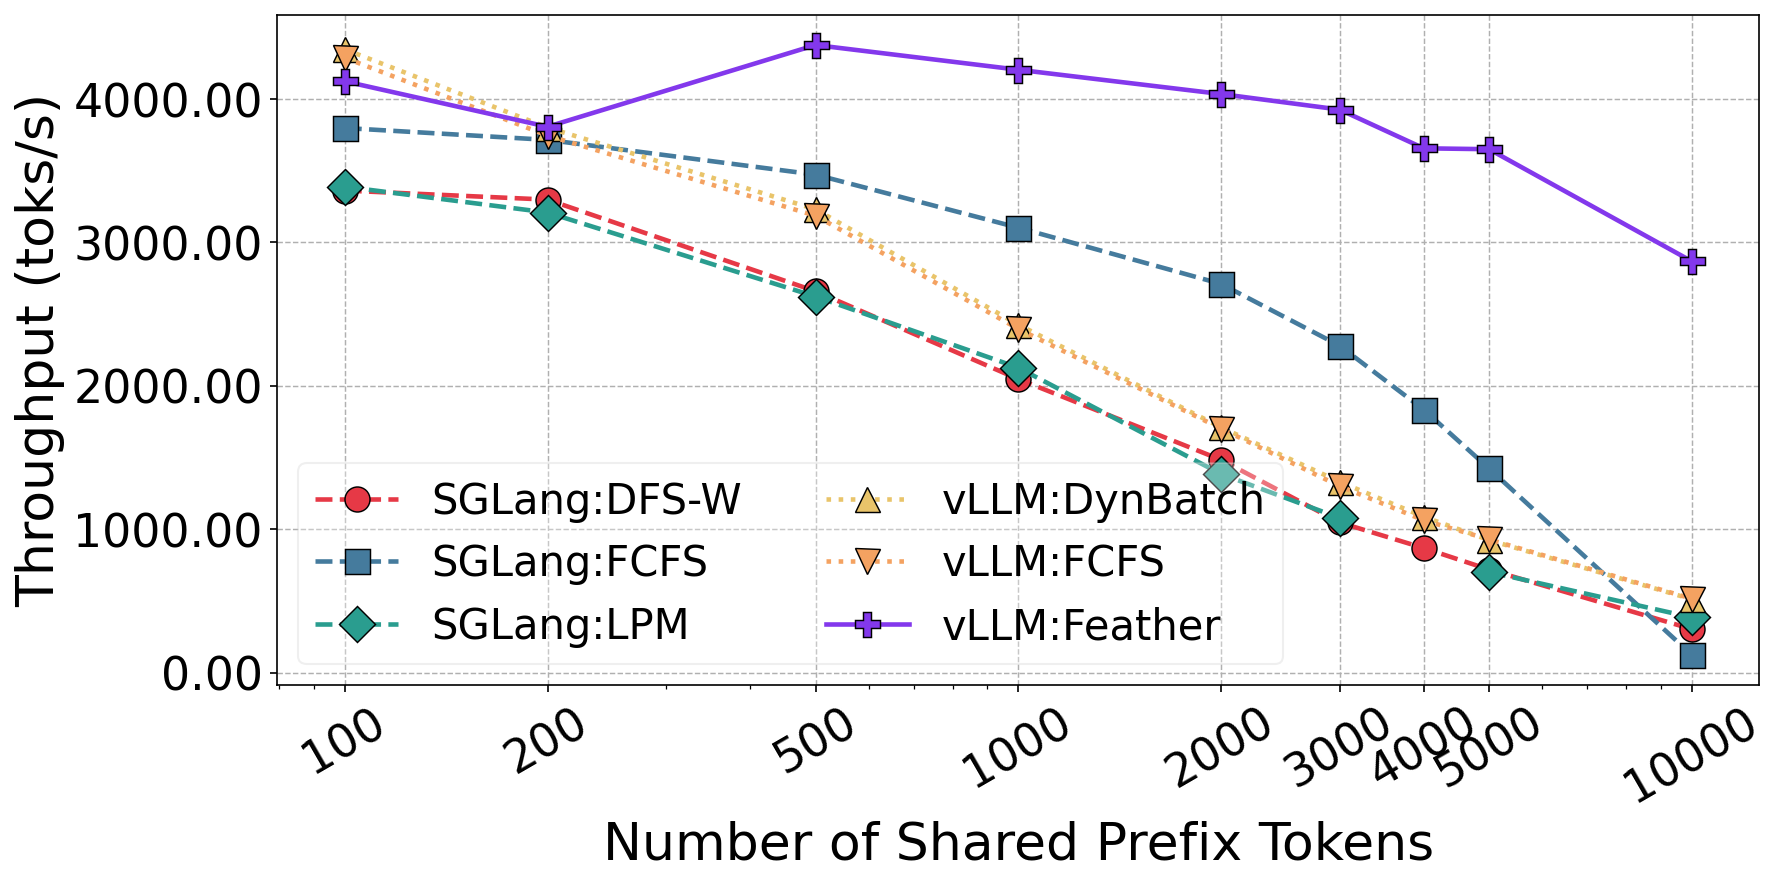
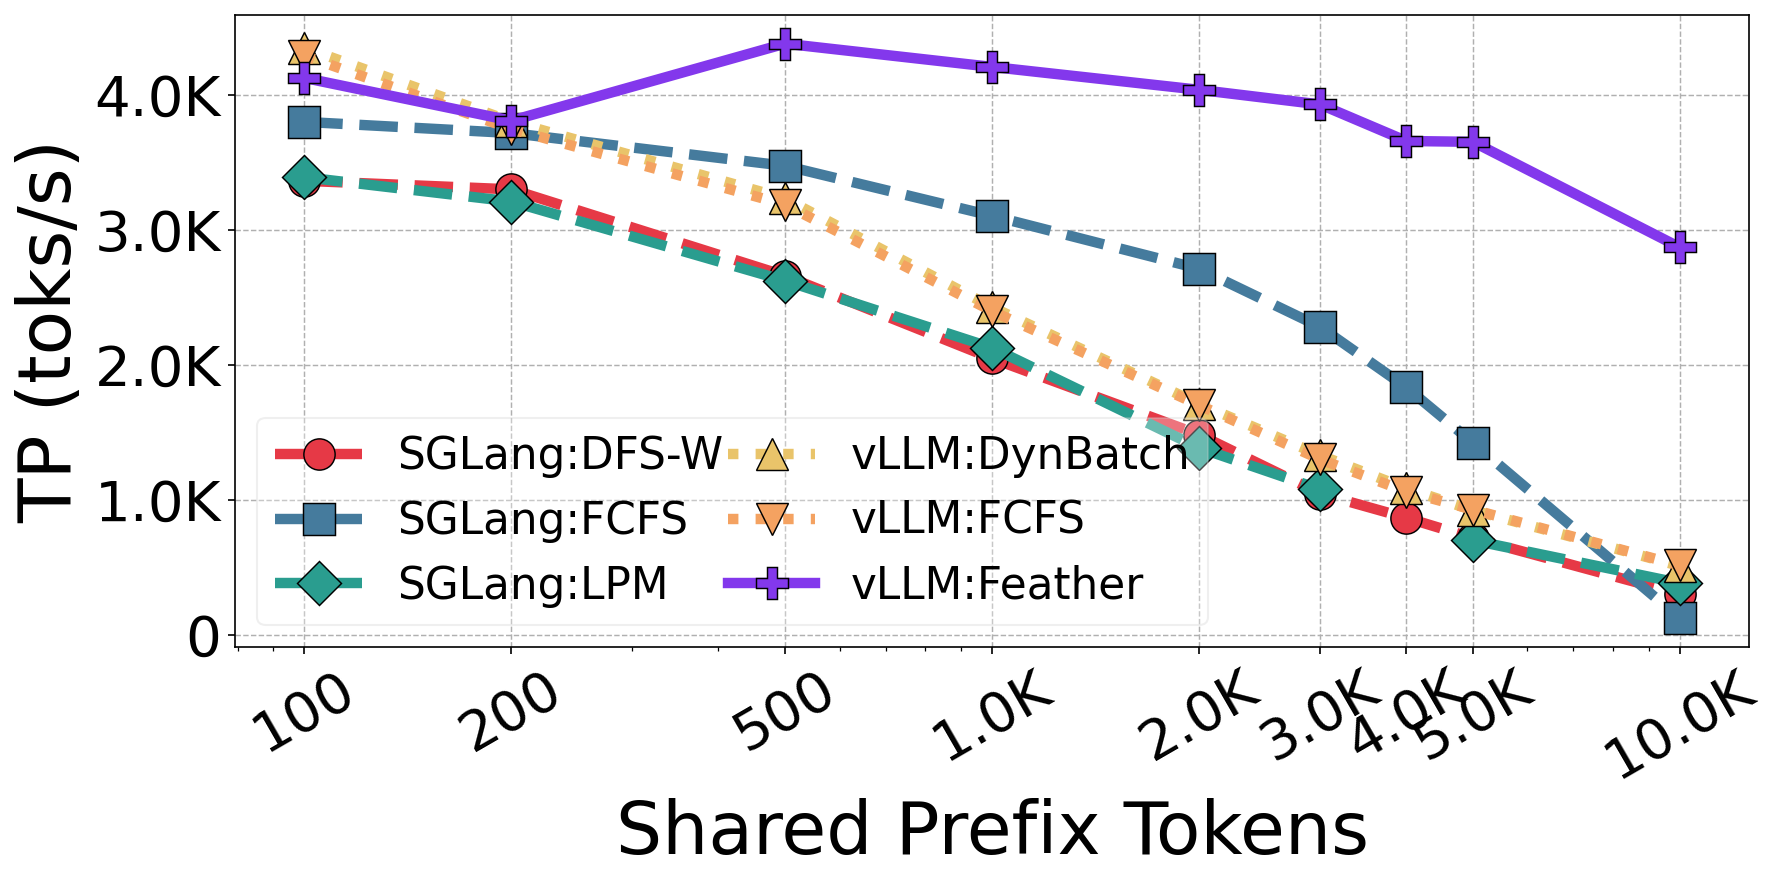
cpu overhead

diff --git a/code/vllm/sys_prompt_tokens_logs/plot.py b/code/vllm/sys_prompt_tokens_logs/plot.py
@@ -172,8 +172,8 @@ def make_plot(metric_key, ylabel, title, outpath):
             ys,
             marker=marker,
             linestyle=linestyle,
-            linewidth=2.2,
-            markersize=12,
+            linewidth=5,
+            markersize=15,
             markeredgecolor="black",
             markeredgewidth=0.7,
             color=color,
@@ -182,19 +182,22 @@ def make_plot(metric_key, ylabel, title, outpath):
 
     ax.set_xscale("log")
 
-    ax.set_xlabel("Number of Shared Prefix Tokens", fontsize=25)
-    ax.set_ylabel(ylabel, fontsize=25)
+    ax.set_xlabel("Shared Prefix Tokens", fontsize=35)
+    ax.set_ylabel(ylabel, fontsize=35)
 
     ax.set_xticks(all_tokens)
     ax.set_xticklabels(all_tokens, rotation=30)
     # ax.get_xaxis().set_major_formatter(ticker.ScalarFormatter())
 
-    ax.tick_params(axis="both", labelsize=22)
+    ax.tick_params(axis="both", labelsize=27)
 
-    ax.yaxis.set_major_formatter(ticker.FormatStrFormatter('%.2f'))
+    # set 1000 to 1K
+    ax.yaxis.set_major_formatter(ticker.FuncFormatter(lambda x, _: f"{x:.0f}" if x < 1000 else f"{x/1000:.1f}K"))
+
+    ax.xaxis.set_major_formatter(ticker.FuncFormatter(lambda x, _: f"{x:.0f}" if x < 1000 else f"{x/1000:.1f}K"))
 
     if metric_key == "throughput":
-        ax.legend(fontsize=20, framealpha=0.3, ncol=2)
+        ax.legend(fontsize=21, framealpha=0.3, ncol=2, columnspacing=0.1)
 
     ax.grid(True, linewidth=0.7, linestyle="--")
 
@@ -218,7 +221,7 @@ os.makedirs(OUT, exist_ok=True)
 
 make_plot(
     "throughput",
-    "Throughput (toks/s)",
+    "TP (toks/s)",
     "Throughput vs Shared Prefix Tokens",
     os.path.join(OUT, "throughput_vs_sys_prompt_tokens.png")
 )
